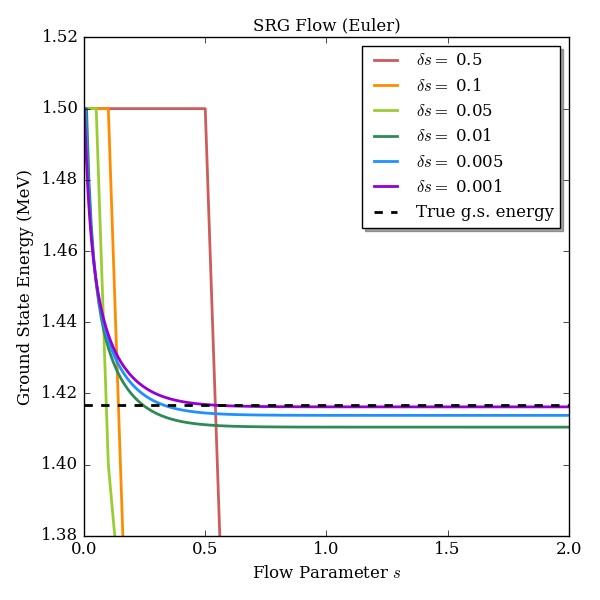
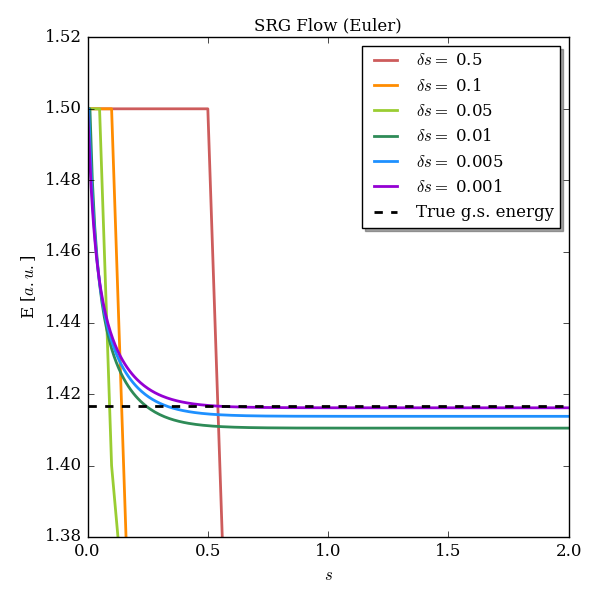
fixed E units

Changed region(s): [[0.03, 0.03, 0.99, 0.99], [0.42, 0.03, 0.69, 0.06]]

diff --git a/src/python/figures/compare_euler.py b/src/python/figures/compare_euler.py
@@ -29,7 +29,7 @@ for i in range(len(methods)):
 	########## E vs. s ##########
 	#############################
 
-	'''
+	
 	plt.figure(figsize=(6,6))
 	fig = plt.figure(1)
 	axes = plt.gca()
@@ -49,16 +49,15 @@ for i in range(len(methods)):
 	plt.plot(s,[1.41677428435]*len(s),linewidth=2,linestyle='--',color='black',label=r'True g.s. energy')
 
 	plt.legend(loc=1, shadow=True, fontsize=12)
-	plt.xlabel(r'Flow Parameter $s$', fontsize=12, weight='normal', family='serif')
-	plt.ylabel(r'Ground State Energy (MeV)', fontsize=12, weight='normal', family='serif')
+	plt.xlabel(r'$s$', fontsize=12, weight='normal', family='serif')
+	plt.ylabel(r'E [$a.u.$]', fontsize=12, weight='normal', family='serif')
 	plt.title(labels[i]+r' Flow (Euler)', fontsize=12, weight='normal', family='serif')
 	plt.tight_layout()
 
 	figname = methods[i]+'_euler_energy.png'
 	plt.savefig(figname, format='png')
-	os.system('okular '+figname)
+	#os.system('okular '+figname)
 	plt.clf()
-	'''
 
 
 
@@ -92,12 +91,12 @@ for i in range(len(methods)):
 
 
 	plt.legend(loc=1, shadow=True, fontsize=12)
-	plt.xlabel(r'Flow Parameter $s$', fontsize=12, weight='normal', family='serif')
+	plt.xlabel(r'$s$', fontsize=12, weight='normal', family='serif')
 	plt.ylabel(offdiag_labels[i], fontsize=12, weight='normal', family='serif')
 	plt.title(labels[i]+r' Flow (Euler)', fontsize=12, weight='normal', family='serif')
 	plt.tight_layout()
 
 	figname = methods[i]+'_euler_offdiag.png'
 	plt.savefig(figname, format='png')
-	os.system('okular '+figname)
+	#os.system('okular '+figname)
 	plt.clf()
